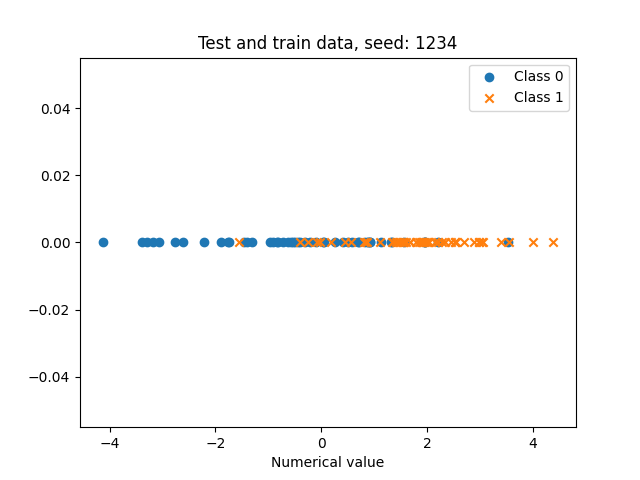
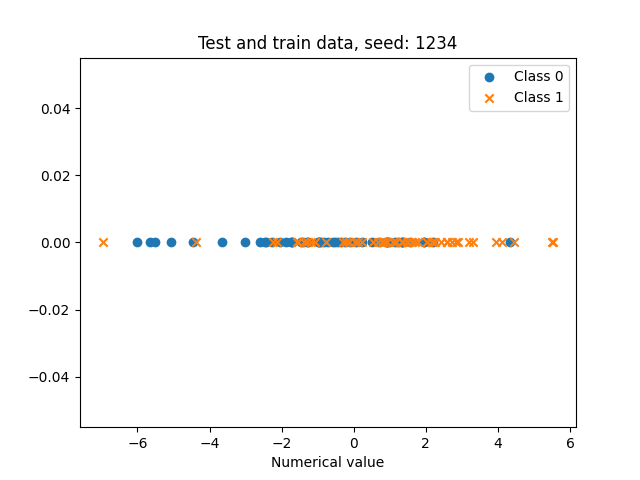
02, check

diff --git a/Tristan/TD/02/template.py b/Tristan/TD/02/template.py
@@ -115,20 +115,18 @@ def predict(likelihoods: np.ndarray):
     return pred
 
 
+
 def plot_data():
-    features,targets,classes = gen_data(50, [-1,1], [np.sqrt(5),np.sqrt(5)])
-    (train_features, train_targets), (test_features, test_targets)\
-        = split_train_test(features, targets, train_ratio=0.8)
-
-    for _class in range(features.shape[1]):
-
-        # Some general shapes for markers, one for even nums and one for odd
-        if _class % 2 == 0:
+    features, targets, classes = gen_data(50, [-1, 1], [np.sqrt(5), np.sqrt(5)])
+    for _class in classes:
+        if _class % 2 == 0: # even -> 0 odd -> x
             marker = 'o'
         else:
             marker = 'x'
-        
-        plt.scatter(features[:,_class],np.array([0]*features.shape[0]),marker=marker,label=fr"Class {_class}")
+        class_features = features[targets == _class]
+
+        plt.scatter(class_features, np.zeros_like(class_features), marker=marker, label=fr"Class {_class}")
+    
     plt.legend()
     plt.title("Test and train data, seed: 1234")
     plt.xlabel("Numerical value")
@@ -136,9 +134,9 @@ def plot_data():
 
 
 def case_study():
-    mus = [-4,4]
+    mus = [-2,2]
     var_s = [np.sqrt(2),np.sqrt(2)]
-    features,targets,classes = gen_data(50, mus, var_s)
+    features,targets,classes = gen_data(5000, mus, var_s)
     (train_features, train_targets), (test_features, test_targets)\
         = split_train_test(features, targets, train_ratio=0.8)
     maxi_liki = maximum_likelihood(train_features,train_targets,test_features,classes)
@@ -161,12 +159,12 @@ if __name__ == "__main__":
     Keep all your test code here or in another file.
     """
 
-    np.random.seed(1234)
+    np.random.seed(12349)
    
 
 
     
-    # features,targets,classes = gen_data(50, [-1,1], [np.sqrt(5),np.sqrt(5)])
+    # features,targets,classes = gen_data(50, [-0,0], [np.sqrt(2),np.sqrt(2)])
     # (train_features, train_targets), (test_features, test_targets)\
     #     = split_train_test(features, targets, train_ratio=0.8)
     # class_mean = mean_of_class(train_features, train_targets, 0)
@@ -175,4 +173,4 @@ if __name__ == "__main__":
     # print(l)
     # print(predict(l))
 
-    plot_data()
+    case_study()
